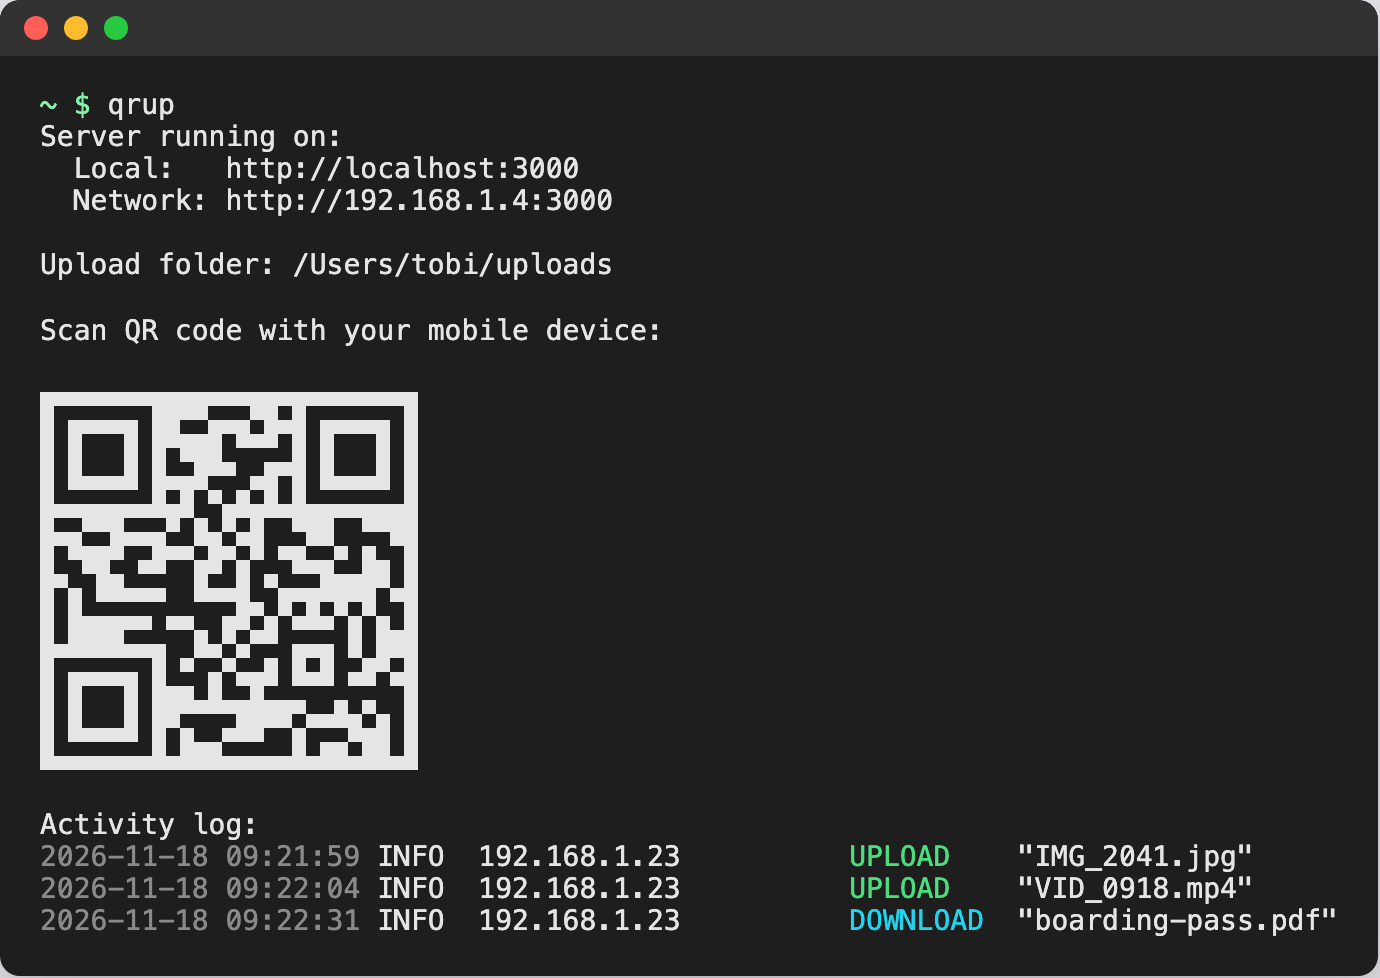
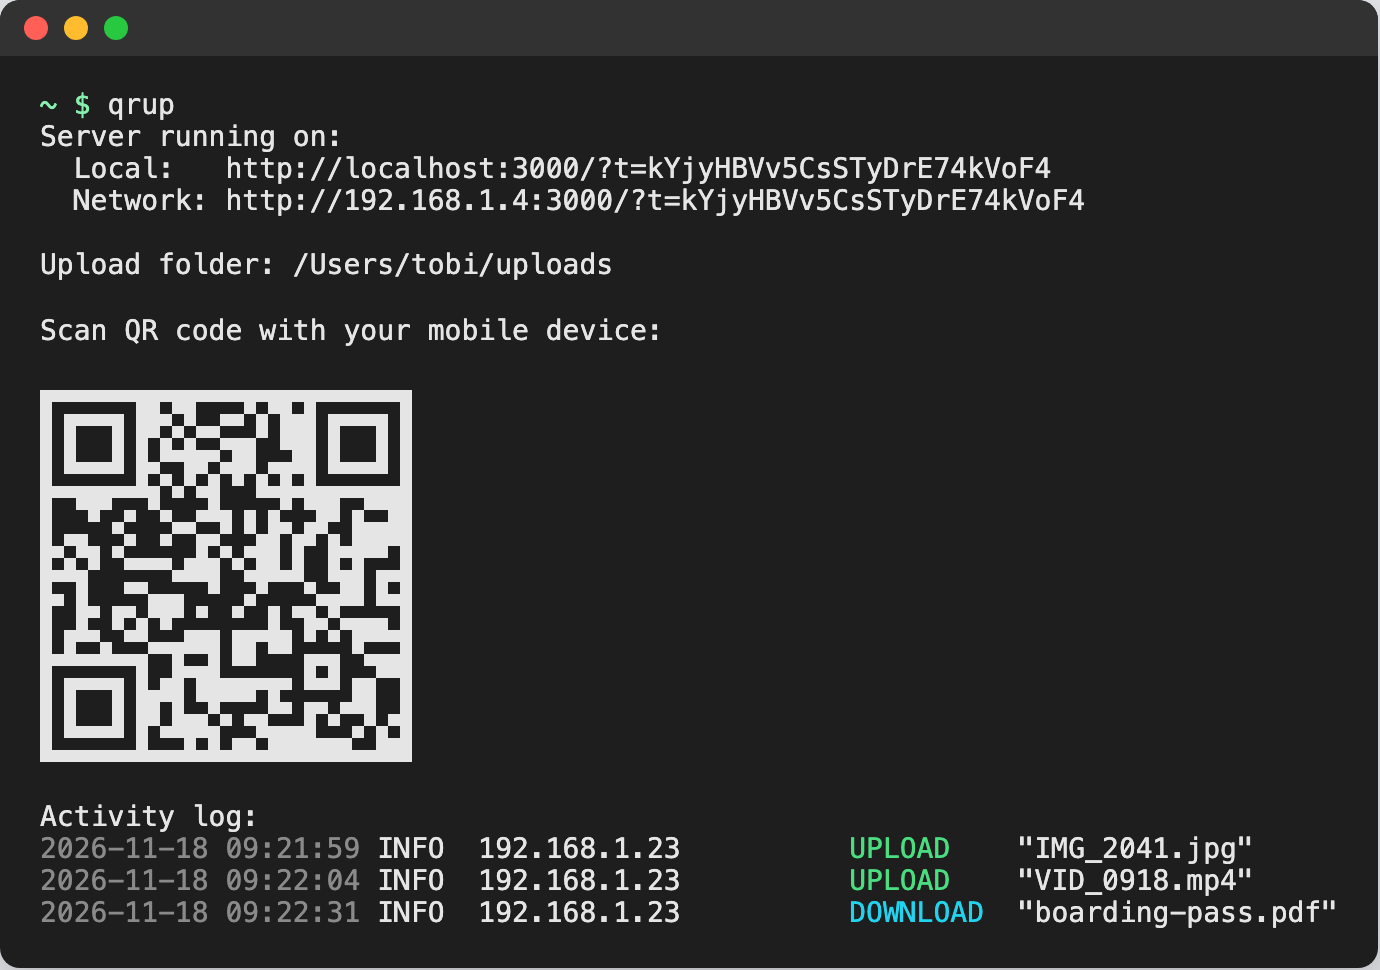
docs: show the access token in the address and terminal screenshot
Amp-Thread-ID: https://ampcode.com/threads/T-01a1e90c-69ab-70f4-8b58-1a7bc7db390c

diff --git a/README.md b/README.md
@@ -13,7 +13,7 @@ qrup
 
 ## How it works
 
-1. **Start qrup** in a terminal. It prints the local network address and a QR code:
+1. **Start qrup** in a terminal. It prints the page's address, which includes a new access token on every start, and the same address as a QR code:
 
    <img src=".github/screenshots/qr-terminal.png" alt="Terminal with QR code" width="600">
 
@@ -25,7 +25,7 @@ qrup
    - From the phone: select photos, videos, or other files. Up to three upload at a time, and each shows its progress.
    - To the phone: tick files in the file browser and tap Download. Several files or a folder arrive as one ZIP.
 
-   The same page works in a desktop browser, with drag and drop:
+   The same page works in a desktop browser, with drag and drop. Open the `Local` address qrup prints, including its `?t=…` part:
 
    <img src=".github/screenshots/desktop-browser.png" alt="qrup in a desktop browser" width="600">
 

diff --git a/CONTRIBUTING.md b/CONTRIBUTING.md
@@ -11,7 +11,7 @@ bun install
 bun run dev        # rebuilds the client and restarts the server on changes
 ```
 
-Open http://localhost:3000, or scan the QR code with a phone on the same network.
+Open the `Local` address it prints (it includes the access token), or scan the QR code with a phone on the same network. `QRUP_OPEN=1 bun run dev` skips the token while you work.
 
 ## Before you open a pull request
 
